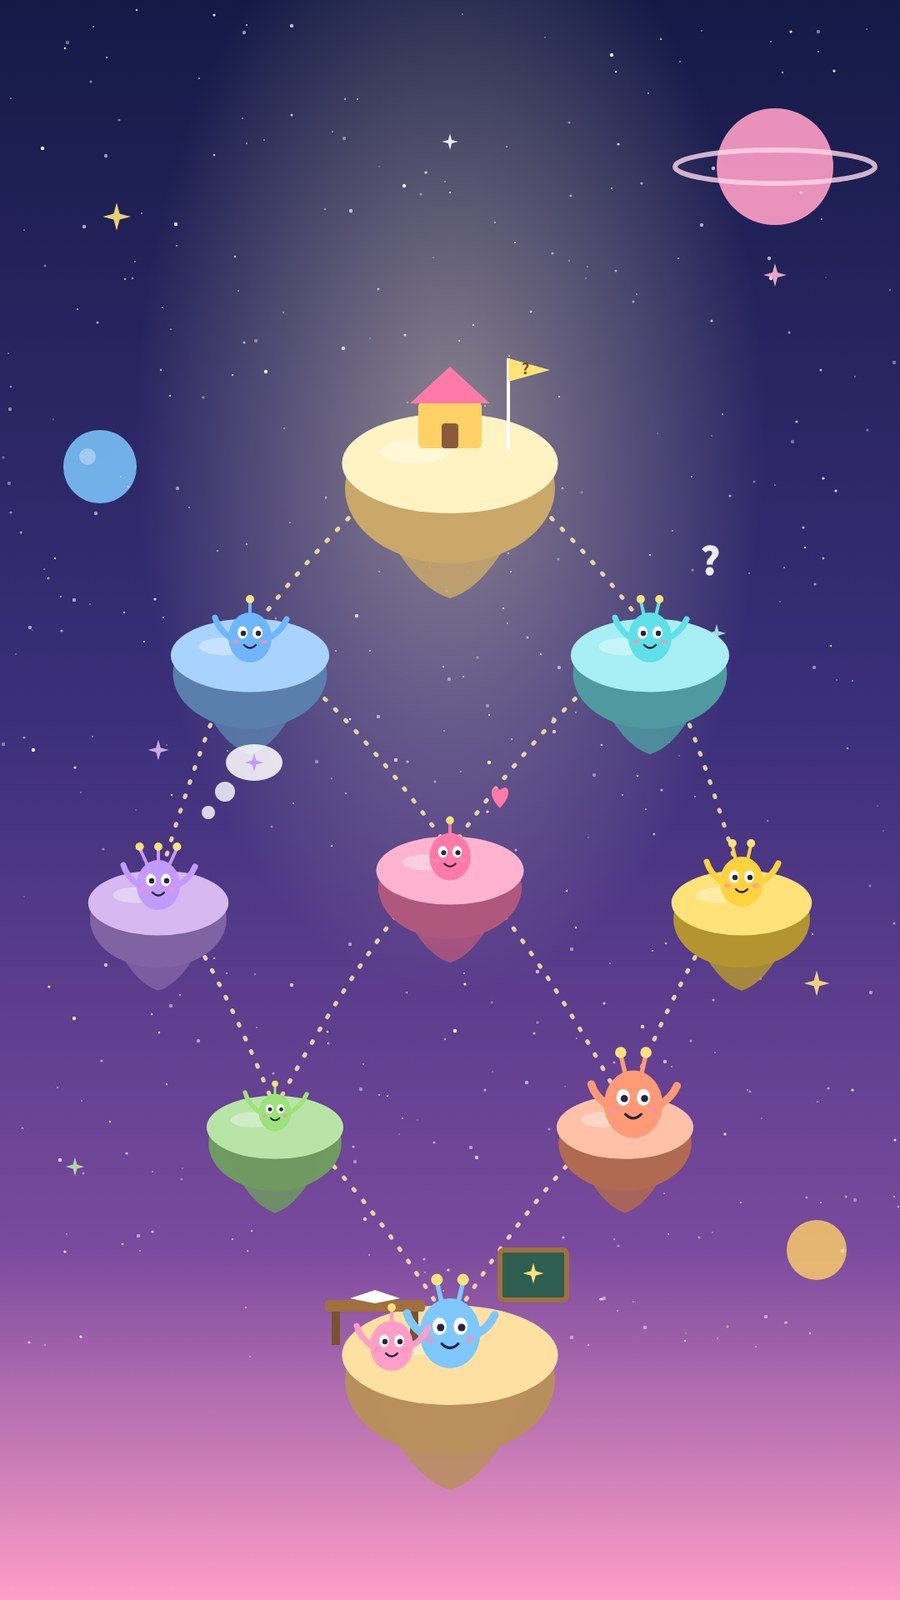
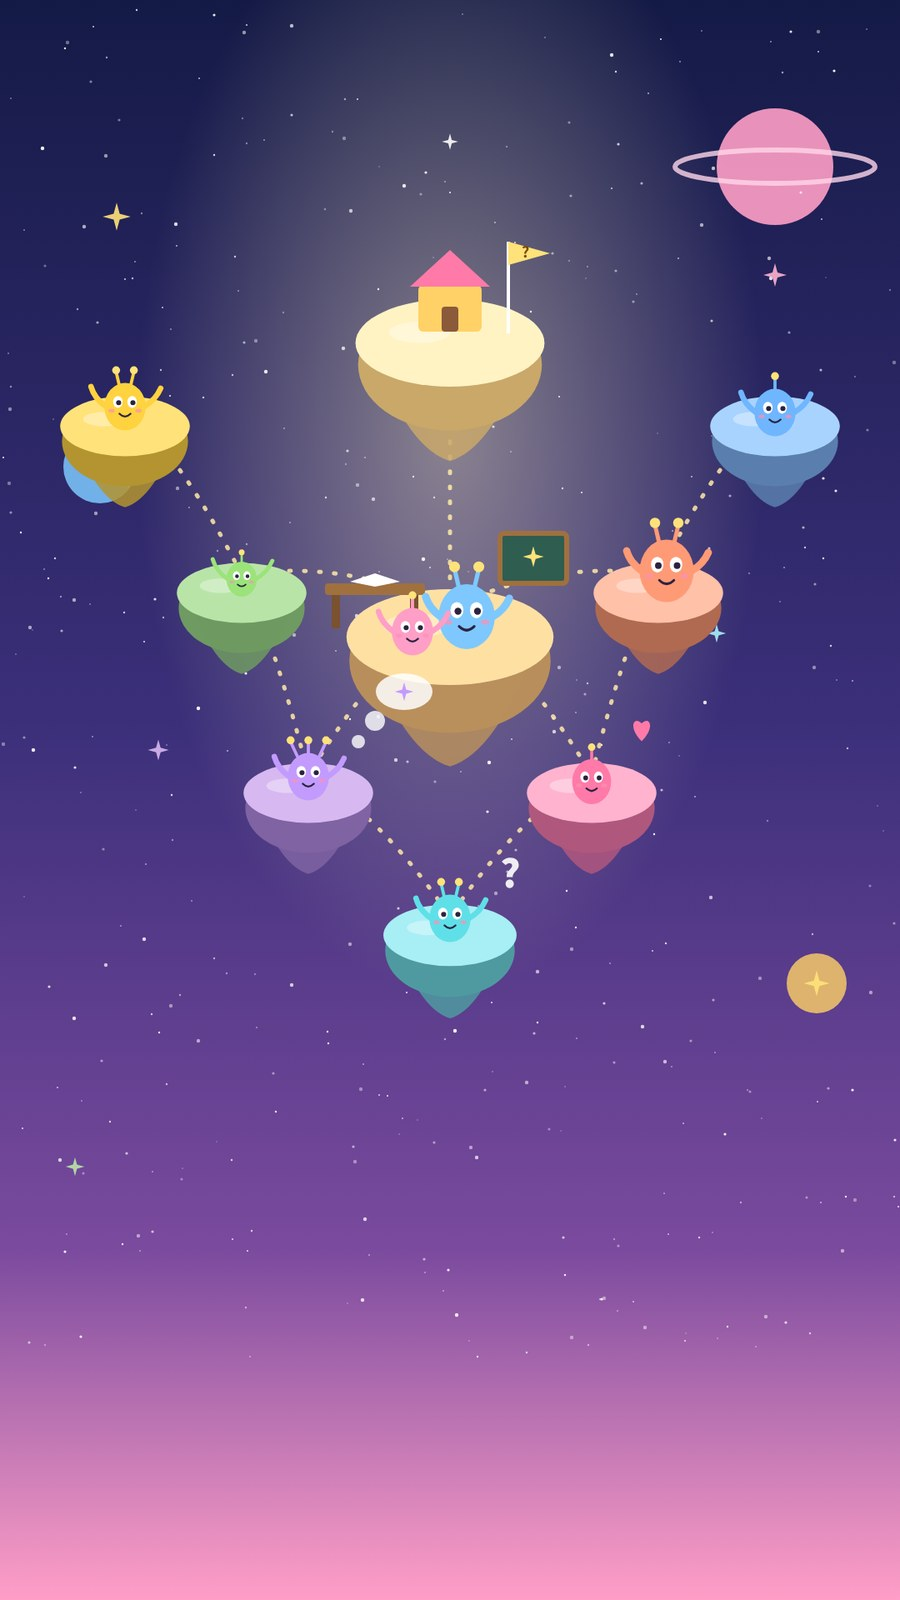
Season 2 Ep 1 다다다: rebuild as beginner 2-stage hub map (40 min)
- Classroom plaza in the centre, four near stars on spokes, three far stars beyond,
  the final star reached back through the classroom
- 2 star stickers (1 near + 1 far), 40-minute limit, final puzzle A rewritten for 2 stickers
- Poster illustration redrawn in the hub layout (tools/poster-dadada.py), poster text updated

Claude-Session: https://claude.ai/code/session_0177nj4XpbvQNbdk3TqixmrQ

diff --git a/escape-sim/poster.js b/escape-sim/poster.js
@@ -11,7 +11,7 @@
     'eighty-days':{ep:8,title:'80일간의 세계일주',tag:'2만 파운드를 건 내기,\n80일 안에 지구를 한 바퀴 돌아라',eng:'AROUND THE WORLD IN EIGHTY DAYS',mission:'여권 도장 4개를 모아 귀환 시각을 맞춰라',credit:'원작 쥘 베른 · 출연 중학생 20명 · 무대 런던에서 런던까지',accent:'#f0c45a',font:'sans'},
     'sherlock':{ep:9,title:'셜록 홈즈',tag:'안개 낀 런던의 일곱 사건,\n마지막 추리는 폭포 끝에서',eng:'SHERLOCK HOLMES · THE BAKER STREET CASEBOOK',mission:'증거 4개를 모아 마지막 추리를 끝내라',credit:'원작 아서 코넌 도일 · 출연 중학생 20명 · 무대 런던에서 라이헨바흐까지',accent:'#e0c27a',font:'serif'},
     'bari':{ep:10,title:'바리데기',tag:'버려진 일곱째 공주,\n저승 끝에서 생명을 길어 오다',eng:'BARIDEGI · THE WATER OF LIFE',mission:'생명꽃 4송이를 모아 약수 우물에서 되살려라',credit:'원작 서사무가 「바리데기」 · 출연 중학생 20명 · 무대 이승에서 서천서역국까지',accent:'#f2a6c0',font:'serif'},
-    'dadada':{season:2,ep:1,title:'다다다 다른 별 학교',tag:'모두 다른 별에서 온 우리 반,\n흩어진 별 스티커를 찾아라',eng:'DADADA · THE SCHOOL OF DIFFERENT STARS',mission:'별 스티커 4장을 모아 우리 반 별자리 지도를 완성하라',credit:'원작 윤진현 『다다다 다른 별 학교』(천개의바람) · 출연 초등학생 20명 · 무대 다른 별 학교 교실에서 나의 별까지',accent:'#ff8ac2',font:'serif',rate:'초등학생 관람가'},
+    'dadada':{season:2,ep:1,title:'다다다 다른 별 학교',tag:'모두 다른 별에서 온 우리 반,\n흩어진 별 스티커를 찾아라',eng:'DADADA · THE SCHOOL OF DIFFERENT STARS',mission:'별 스티커 2장을 모아 우리 반 별자리 지도를 완성하라',credit:'원작 윤진현 『다다다 다른 별 학교』(천개의바람) · 출연 초등학생 20명 · 무대 교실 광장과 친구들의 별 · 입문 (2단계)',accent:'#ff8ac2',font:'serif',rate:'초등학생 관람가'},
     'baekseok':{season:2,ep:2,title:'백석의 길',tag:'경성에서 통영으로, 정주에서 만주로,\n시인이 걸어간 길을 따라가라',eng:'BAEK SEOK · FROM GYEONGSEONG TO MANCHURIA',mission:'시 카드 5장을 모아 백석 시 지도를 완성하라',credit:'백석의 시 세계 · 출연 중학생 20명 · 무대 경성에서 만주까지 · 난이도 중 (4단계 12곳)',accent:'#d9c7a0',font:'serif'}
   };
   const css=`

diff --git a/escape-sim/maps/sim/tools/poster-dadada.py b/escape-sim/maps/sim/tools/poster-dadada.py
@@ -1,0 +1,116 @@
+import random, sys
+random.seed(11)
+W, H = 1080, 1920
+withText = len(sys.argv) > 1
+
+stars = "".join(
+    f'<circle cx="{random.uniform(0,W):.0f}" cy="{random.uniform(0,H*0.85):.0f}" r="{random.choice([0.8,1,1.2,1.6,2.2]):.1f}" fill="#fff" opacity="{random.uniform(.35,.95):.2f}"/>'
+    for _ in range(420))
+sparkles = "".join(
+    f'<path transform="translate({x},{y}) scale({s})" d="M0,-14 L3,-3 L14,0 L3,3 L0,14 L-3,3 L-14,0 L-3,-3Z" fill="{c}" opacity=".9"/>'
+    for x, y, s, c in [(140,260,1.2,"#ffe27a"),(930,330,1,"#ffb3cf"),(860,760,.8,"#a8eef5"),(190,900,.9,"#d7b8f0"),(980,1180,1.1,"#ffe27a"),(90,1400,.8,"#b9e4a8"),(540,170,.7,"#fff")])
+
+# planets: (x, y, r, top, rock, name)
+P = {
+ "vault": (540, 380, 105, "#fff3c4", "#c9a86a"),
+ "clubB": (150, 490, 72, "#ffe27a", "#b39430"),
+ "stacks": (930, 490, 72, "#a9d3ff", "#5a7fae"),
+ "edu": (290, 690, 72, "#b9e4a8", "#6f9a62"),
+ "lobby": (540, 730, 115, "#ffe0a3", "#b88f5c"),
+ "cafe": (790, 690, 72, "#ffc1a8", "#b06a52"),
+ "kids": (370, 930, 72, "#d7b8f0", "#7f63a3"),
+ "clubA": (710, 930, 72, "#ffb3cf", "#b0577e"),
+ "digital": (540, 1100, 74, "#a8eef5", "#4f9aa1"),
+}
+L = [("lobby","edu"),("lobby","cafe"),("lobby","kids"),("lobby","clubA"),("edu","kids"),("cafe","clubA"),("edu","clubB"),("cafe","stacks"),("kids","digital"),("clubA","digital"),("lobby","vault")]
+
+def bridge(a, b):
+    (x1, y1, *_), (x2, y2, *_) = P[a], P[b]
+    mx, my = (x1+x2)/2, (y1+y2)/2 - 40
+    return f'<path d="M{x1},{y1} Q{mx},{my} {x2},{y2}" fill="none" stroke="#ffe9a8" stroke-width="5" stroke-dasharray="2 16" stroke-linecap="round" opacity=".85"/>'
+
+def planet(k):
+    x, y, r, top, rock = P[k]
+    g = f'''<g>
+ <ellipse cx="{x}" cy="{y+r*0.55}" rx="{r*1.05}" ry="{r*0.75}" fill="{rock}"/>
+ <path d="M{x-r*0.9},{y+r*0.35} Q{x-r*0.5},{y+r*1.5} {x},{y+r*1.65} Q{x+r*0.5},{y+r*1.5} {x+r*0.9},{y+r*0.35}Z" fill="{rock}" opacity=".85"/>
+ <ellipse cx="{x}" cy="{y+r*0.3}" rx="{r*1.08}" ry="{r*0.5}" fill="{top}"/>
+ <ellipse cx="{x-r*0.35}" cy="{y+r*0.18}" rx="{r*0.35}" ry="{r*0.12}" fill="#fff" opacity=".35"/>
+</g>'''
+    return g
+
+def kid(x, y, s, body, eye="#2b2340", ant=1, arms=True):
+    # original round alien kid: blob body, big eyes, antenna(e)
+    a = ""
+    for i in range(ant):
+        dx = (i - (ant-1)/2) * 14 * s
+        a += f'<line x1="{x+dx}" y1="{y-26*s}" x2="{x+dx*1.6}" y2="{y-44*s}" stroke="{body}" stroke-width="{4*s}" stroke-linecap="round"/><circle cx="{x+dx*1.6}" cy="{y-46*s}" r="{5*s}" fill="#ffe27a"/>'
+    arm = f'<path d="M{x-24*s},{y} q-14,-10 -18,-24" stroke="{body}" stroke-width="{7*s}" fill="none" stroke-linecap="round"/><path d="M{x+24*s},{y} q14,-8 20,-22" stroke="{body}" stroke-width="{7*s}" fill="none" stroke-linecap="round"/>' if arms else ""
+    return f'''<g>{a}{arm}
+ <ellipse cx="{x}" cy="{y}" rx="{26*s}" ry="{30*s}" fill="{body}"/>
+ <ellipse cx="{x-9*s}" cy="{y-6*s}" rx="{6*s}" ry="{7.5*s}" fill="#fff"/><ellipse cx="{x+9*s}" cy="{y-6*s}" rx="{6*s}" ry="{7.5*s}" fill="#fff"/>
+ <circle cx="{x-8*s}" cy="{y-5*s}" r="{3.2*s}" fill="{eye}"/><circle cx="{x+10*s}" cy="{y-5*s}" r="{3.2*s}" fill="{eye}"/>
+ <path d="M{x-7*s},{y+9*s} q{7*s},{7*s} {14*s},0" stroke="{eye}" stroke-width="{2.4*s}" fill="none" stroke-linecap="round"/>
+ <ellipse cx="{x-17*s}" cy="{y+5*s}" rx="{4*s}" ry="{2.5*s}" fill="#ff8fb3" opacity=".7"/><ellipse cx="{x+17*s}" cy="{y+5*s}" rx="{4*s}" ry="{2.5*s}" fill="#ff8fb3" opacity=".7"/>
+</g>'''
+
+def props():
+    o = ""
+    # vault: tiny house + flag (나의 별)
+    x, y = 540, 380
+    o += f'<rect x="{x-38}" y="{y-38}" width="76" height="56" rx="6" fill="#ffd166"/><path d="M{x-48},{y-36} L{x},{y-80} L{x+48},{y-36}Z" fill="#ff7aa8"/><rect x="{x-10}" y="{y-12}" width="20" height="30" rx="4" fill="#8a5a3a"/>'
+    o += f'<line x1="{x+70}" y1="{y+20}" x2="{x+70}" y2="{y-90}" stroke="#fff" stroke-width="4"/><path d="M{x+70},{y-90} l50,14 l-50,14Z" fill="#ffe27a"/><text x="{x+86}" y="{y-71}" font-size="18" fill="#7a4a00" font-family="Noto Sans CJK KR" font-weight="700">?</text>'
+    # lobby: desk + book (교실)
+    x, y = 540, 730
+    o += f'<rect x="{x-150}" y="{y-30}" width="120" height="14" rx="4" fill="#a0703f"/><rect x="{x-142}" y="{y-16}" width="10" height="40" fill="#7a5230"/><rect x="{x-48}" y="{y-16}" width="10" height="40" fill="#7a5230"/>'
+    o += f'<path d="M{x-120},{y-32} l30,-10 l30,10 l-30,6Z" fill="#fff"/><rect x="{x+60}" y="{y-90}" width="80" height="60" rx="5" fill="#2f5d50" stroke="#a0703f" stroke-width="6"/>'
+    o += f'<path transform="translate({x+100},{y-62}) scale(.9)" d="M0,-14 L3,-3 L14,0 L3,3 L0,14 L-3,3 L-14,0 L-3,-3Z" fill="#ffe27a"/>'
+    return o
+
+kids = "".join([
+    kid(560, 740, 1.3, "#7ec8ff", ant=2),          # lobby
+    kid(495, 758, 0.95, "#ff9ec7", ant=1),
+    kid(290, 695, 0.7, "#9be37a", ant=1),          # 작아도 (small)
+    kid(800, 685, 1.25, "#ff9a76", ant=2),         # 아맛나 (round)
+    kid(370, 932, 0.95, "#c39bff", ant=3),         # 생각대로
+    kid(710, 938, 0.9, "#ff7aa8", ant=1, arms=False),  # 두근두근
+    kid(150, 488, 0.95, "#ffd23f", ant=2),         # 장난쳐
+    kid(930, 495, 0.95, "#6fb6ff", ant=1),         # 반듯반듯
+    kid(540, 1102, 0.95, "#5fe0e8", ant=2),        # 물음표
+])
+
+hearts = '<path transform="translate(770,880) scale(1.2)" d="M0,8 C-14,-6 -8,-18 0,-10 C8,-18 14,-6 0,8Z" fill="#ff7aa8"/>'
+qmark = '<text x="600" y="1065" font-size="46" fill="#fff" font-family="Noto Sans CJK KR" font-weight="900" opacity=".9">?</text>'
+think = '<circle cx="430" cy="890" r="8" fill="#fff" opacity=".8"/><circle cx="450" cy="865" r="12" fill="#fff" opacity=".8"/><ellipse cx="485" cy="830" rx="34" ry="22" fill="#fff" opacity=".85"/><path transform="translate(485,830) scale(.8)" d="M0,-14 L3,-3 L14,0 L3,3 L0,14 L-3,3 L-14,0 L-3,-3Z" fill="#c39bff"/>'
+
+text = ""
+if withText:
+    text = '''<rect width="1080" height="1920" fill="url(#shade)"/>
+<g font-family="Noto Sans CJK KR" text-anchor="middle" fill="#fff">
+<text x="540" y="120" font-size="34" letter-spacing="6" fill="#ffd166">토닥토닥</text>
+<text x="540" y="168" font-size="28" fill="#e4e0ff">메타버스 방탈출게임 · 시즌 2 · 제1편</text>
+<text x="540" y="1760" font-size="92" font-weight="900">다다다 다른 별 학교</text>
+<text x="540" y="1815" font-size="30" fill="#ffd6ea">모두 다른 별에서 온 우리 반, 흩어진 별 스티커를 찾아라</text>
+<text x="540" y="1880" font-size="22" fill="#cfc8f5">원작 윤진현 · 포스터 기획·제작 토닥토닥그림책도서관</text></g>'''
+
+svg = f'''<svg xmlns="http://www.w3.org/2000/svg" width="{W}" height="{H}" viewBox="0 0 {W} {H}">
+<defs>
+ <linearGradient id="sky" x1="0" y1="0" x2="0" y2="1">
+  <stop offset="0" stop-color="#141a46"/><stop offset=".45" stop-color="#3b2f7a"/><stop offset=".78" stop-color="#7a4a9e"/><stop offset="1" stop-color="#ff9ec7"/>
+ </linearGradient>
+ <radialGradient id="glow" cx=".5" cy=".27" r=".35"><stop offset="0" stop-color="#fff3c4" stop-opacity=".45"/><stop offset="1" stop-color="#fff3c4" stop-opacity="0"/></radialGradient>
+ <linearGradient id="shade" x1="0" y1="0" x2="0" y2="1"><stop offset="0" stop-color="#000" stop-opacity=".35"/><stop offset=".15" stop-color="#000" stop-opacity="0"/><stop offset=".8" stop-color="#000" stop-opacity="0"/><stop offset="1" stop-color="#000" stop-opacity=".55"/></linearGradient>
+</defs>
+<rect width="{W}" height="{H}" fill="url(#sky)"/>
+<rect width="{W}" height="{H}" fill="url(#glow)"/>
+<circle cx="930" cy="200" r="70" fill="#ff9ec7" opacity=".9"/><ellipse cx="930" cy="200" rx="120" ry="20" fill="none" stroke="#ffd6ea" stroke-width="6" opacity=".8"/>
+<circle cx="120" cy="560" r="44" fill="#7ec8ff" opacity=".85"/><circle cx="105" cy="548" r="10" fill="#fff" opacity=".35"/>
+<circle cx="980" cy="1180" r="36" fill="#ffd166" opacity=".8"/>
+{stars}{sparkles}
+{''.join(bridge(a,b) for a,b in L)}
+{''.join(planet(k) for k in P)}
+{props()}{kids}{hearts}{qmark}{think}
+{text}
+</svg>'''
+open("poster-text.html" if withText else "poster.html", "w").write(
+    f'<!DOCTYPE html><html><head><meta charset="utf-8"><style>html,body{{margin:0;background:#000}}</style></head><body>{svg}</body></html>')
